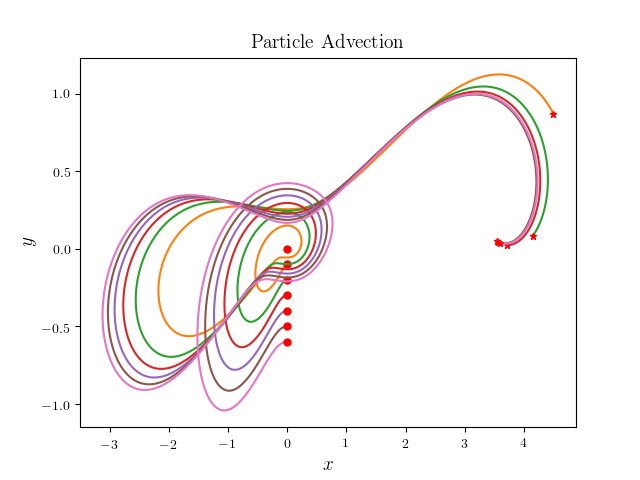
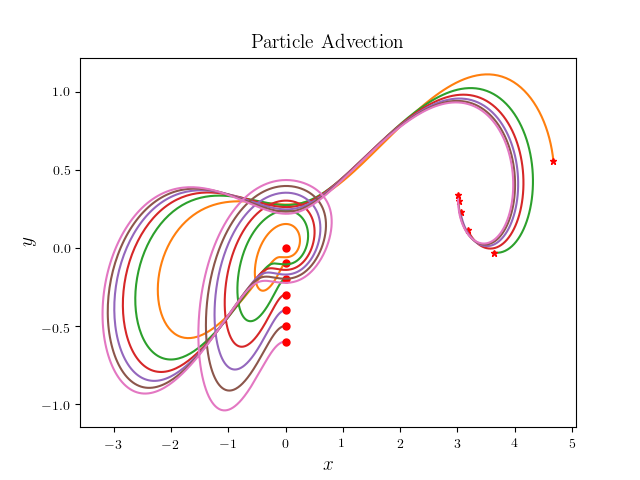
Refactored to use Eigen vectors. Implemented grid interpolation

diff --git a/src/Dsys_Int.cpp b/src/Dsys_Int.cpp
@@ -1,4 +1,4 @@
-#include "Dsys_Anal.h"
+#include "Dsys_Int.h"
 #include "json.hpp"
 #include <vector>
 #include "eigen/Eigen/Dense"
@@ -9,20 +9,24 @@
 #include <string>
 
 using json = nlohmann::json;
+using namespace Eigen;
+
+double GridInterp(VectorXd x_data, VectorXd y_data,
+                  VectorXd field_data, double x_target, double y_target);
 
 // Class constructor
-Dsys_Anal::Dsys_Anal(double dt, double tmax, 
-                     VectorXd x0, VectorXd y0,
-                     double (*u)(double, double, double),
-                     double (*v)(double, double, double)){
+Dsys_Int::Dsys_Int(double dt, double tmax, 
+                   VectorXd x0, VectorXd y0,
+                   VectorXd x_data, VectorXd y_data,
+                   VectorXd u_data, VectorXd v_data){
 
     SetTime(dt, tmax);
     SetICs(x0, y0);
-    SetVel(*u, *v);
+    SetVel(x_data, y_data, u_data, v_data);
 }
 
 // Sets time parameters
-void Dsys_Anal::SetTime(double dt_in, double tmax_in){
+void Dsys_Int::SetTime(double dt_in, double tmax_in){
     dt = dt_in;
     tmax = tmax_in;
 
@@ -44,7 +48,7 @@ void Dsys_Anal::SetTime(double dt_in, double tmax_in){
 }
 
 // Sets initial conditions
-void Dsys_Anal::SetICs(VectorXd x0, VectorXd y0){
+void Dsys_Int::SetICs(VectorXd x0, VectorXd y0){
     // Verify same quantity of x and y coords
     if (x0.size() != y0.size()){
         throw std::invalid_argument("Mismatched IC Vectors");
@@ -69,13 +73,15 @@ void Dsys_Anal::SetICs(VectorXd x0, VectorXd y0){
 }
 
 // Sets velocity field equations
-void Dsys_Anal::SetVel(double (*u_in)(double, double, double),
-                       double (*v_in)(double, double, double)){
-    u = *u_in;
-    v = *v_in;
+void Dsys_Int::SetVel(VectorXd x_in, VectorXd y_in,
+                      VectorXd u_in, VectorXd v_in){
+    x_data = x_in;
+    y_data = y_in;
+    u_data = u_in;
+    v_data = v_in;
 }
 
-void Dsys_Anal::ResizeParts(){
+void Dsys_Int::ResizeParts(){
     // Resize position vectors of all particles
     for (std::size_t n = 0; n != parts.size(); ++n){
         parts[n].x.conservativeResize(t_count + 1);
@@ -84,7 +90,7 @@ void Dsys_Anal::ResizeParts(){
 }
 
 // Marches using Explicit Euler scheme
-void Dsys_Anal::MarchEE(){
+void Dsys_Int::MarchEE(){
     // ResizeParts neighbor variables
     double u_n = 0, v_n = 0;
 
@@ -95,8 +101,8 @@ void Dsys_Anal::MarchEE(){
         for (std::size_t n = 0; n != parts.size(); ++n){
 
             // Compute velocity components
-            u_n = u(t(i), parts[n].x(i), parts[n].y(i));
-            v_n = v(t(i), parts[n].x(i), parts[n].y(i));
+            u_n = GridInterp(x_data, y_data, u_data, parts[n].x(i), parts[n].y(i));
+            v_n = GridInterp(x_data, y_data, v_data, parts[n].x(i), parts[n].y(i));
 
             // Apply Euler
             parts[n].x(i + 1) = parts[n].x(i) + dt * u_n;
@@ -106,7 +112,7 @@ void Dsys_Anal::MarchEE(){
 }
 
 // Marches using Adams-Bashforth Scheme
-void Dsys_Anal::MarchAB(){
+void Dsys_Int::MarchAB(){
     // ResizeParts neighbor variables
     double u_n = 0, v_n = 0;
 
@@ -120,8 +126,8 @@ void Dsys_Anal::MarchAB(){
         for (std::size_t n = 0; n != parts.size(); ++n){
 
             // Compute velocity components
-            u_n = u(t(i), parts[n].x(i), parts[n].y(i));
-            v_n = v(t(i), parts[n].x(i), parts[n].y(i));
+            u_n = GridInterp(x_data, y_data, u_data, parts[n].x(i), parts[n].y(i));
+            v_n = GridInterp(x_data, y_data, v_data, parts[n].x(i), parts[n].y(i));
 
             // Apply Euler for first step
             if (i == 0){
@@ -143,18 +149,18 @@ void Dsys_Anal::MarchAB(){
 }
 
 // Prints trajectory data for given particle
-void Dsys_Anal::PrintTraj(int n){
+void Dsys_Int::PrintTraj(int n){
     // Print column headers
     printf("%6c%6c%6c\n", 't', 'x', 'y');
 
     // Iterate through position vectors
-    for (std::size_t i = 0; i != t_count; ++i){
-        printf("%6.2f%6.2f%6.2f\n", t(i), parts[n].x(i), parts[n].y(i));
+    for (std::size_t i = 0; i != t.size(); ++i){
+        printf("%6.2f%6.2f%6.2f\n", t[i], parts[n].x(i), parts[n].y(i));
     }
 }
 
 // Exports data to given file
-void Dsys_Anal::ExportData(std::string filename){
+void Dsys_Int::ExportData(std::string filename){
     // Create json object
     json j;
 
@@ -175,4 +181,38 @@ void Dsys_Anal::ExportData(std::string filename){
     // Write file
     std::ofstream outfile(filename);
     outfile << std::setw(4) << j << std::endl;
+}
+
+double GridInterp(VectorXd x_data, VectorXd y_data,
+                  VectorXd field_data, double x_target, double y_target){
+
+    VectorXd dx = x_data.array() - x_target;
+    VectorXd dy = y_data.array() - y_target;
+
+    VectorXd d = (dx.array().square() + dy.array().square()).sqrt();
+
+    VectorXd::Index i1, i2, i3;
+
+    double min = d.minCoeff(&i1);
+    if (min == 0){
+        return field_data(i1);
+    }
+
+    d(i1) = d.maxCoeff() + 1;
+    min = d.minCoeff(&i2);
+    d(i2) = d.maxCoeff() + 1;
+    min = d.minCoeff(&i3);
+
+    Vector3d P; P << x_data(i1), y_data(i1), field_data(i1);
+
+    Vector3d PR; PR << x_data(i3) - P(0),
+                       y_data(i3) - P(1),
+                       field_data(i3) - P(2);
+    Vector3d PQ; PQ << x_data(i2) - P(0),
+                       y_data(i2) - P(1),
+                       field_data(i2) - P(2);
+
+    Vector3d n = PR.cross(PQ);
+
+    return P(2) - (1 / n(2)) * (n(0)*(x_target - P(0)) + n(1)*(y_target - P(1)));
 }

diff --git a/include/Dsys_Int.h b/include/Dsys_Int.h
@@ -5,7 +5,7 @@
 
 using namespace Eigen;
 
-class Dsys_Anal {
+class Dsys_Int {
         struct Particle {
             VectorXd x, y;
         };
@@ -16,21 +16,23 @@ class Dsys_Anal {
         int t_count;
 
         std::vector<Particle> parts;
-        std::function<double(double, double, double)> u;
-        std::function<double(double, double, double)> v;
+        VectorXd x_data;
+        VectorXd y_data;
+        VectorXd u_data;
+        VectorXd v_data;
 
         bool t_set = false;
         bool ic_set = false;
     public:
-        Dsys_Anal() {};
-        Dsys_Anal(double, double,
-                  VectorXd, VectorXd,
-                  double (*u_in)(double, double, double),
-                  double (*v_in)(double, double, double));
+        Dsys_Int() {};
+        Dsys_Int(double, double,
+                 VectorXd, VectorXd,
+                 VectorXd, VectorXd,
+                 VectorXd, VectorXd);
         void SetTime(double, double);
         void SetICs(VectorXd, VectorXd);
-        void SetVel(double (*u_in)(double, double, double),
-                    double (*v_in)(double, double, double));
+        void SetVel(VectorXd, VectorXd,
+                    VectorXd, VectorXd);
         void MarchEE();
         void MarchAB();
         void PrintTraj(int);

diff --git a/src/main.cpp b/src/main.cpp
@@ -1,4 +1,5 @@
 #include "Dsys_Anal.h"
+//#include "Dsys_Int.h"
 #include "eigen/Eigen/Dense"
 #include <vector>
 #include <cmath>
@@ -23,8 +24,11 @@ void sample_1(){
 
     double tmax = 10;
 
-    std::vector<double> x0 = {0, 0, 0, 0, 0, 0, 0};
-    std::vector<double> y0 = {0, -0.1, -0.2, -0.3, -0.4, -0.5, -0.6};
+    VectorXd x0(7);
+    VectorXd y0(7);
+
+    x0 << 0, 0, 0, 0, 0, 0, 0;
+    y0 << 0, -0.1, -0.2, -0.3, -0.4, -0.5, -0.6;
 
     Dsys_Anal sys1 (dt, tmax, x0, y0, u, v);
 
@@ -43,8 +47,11 @@ void sample_2(){
 
     double tmax = 10;
 
-    std::vector<double> x0 = {0, 0, 0, 0, 0};
-    std::vector<double> y0 = {-0.1, -0.2, -0.3, -0.4, -0.5};
+    VectorXd x0(5);
+    VectorXd y0(5);
+    
+    x0 << 0, 0, 0, 0, 0;
+    y0 << -0.1, -0.2, -0.3, -0.4, -0.5;
 
     Dsys_Anal sys1 (dt, tmax, x0, y0, u, v);
 
